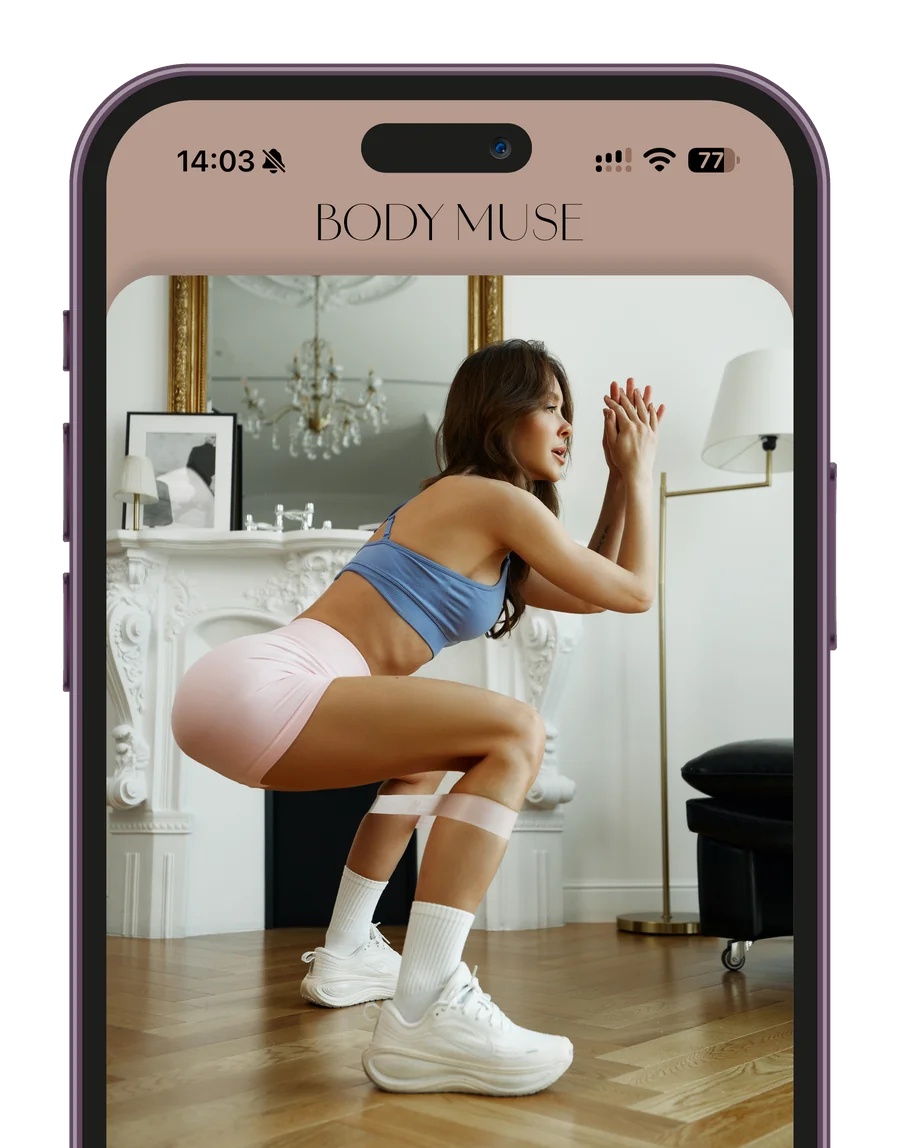
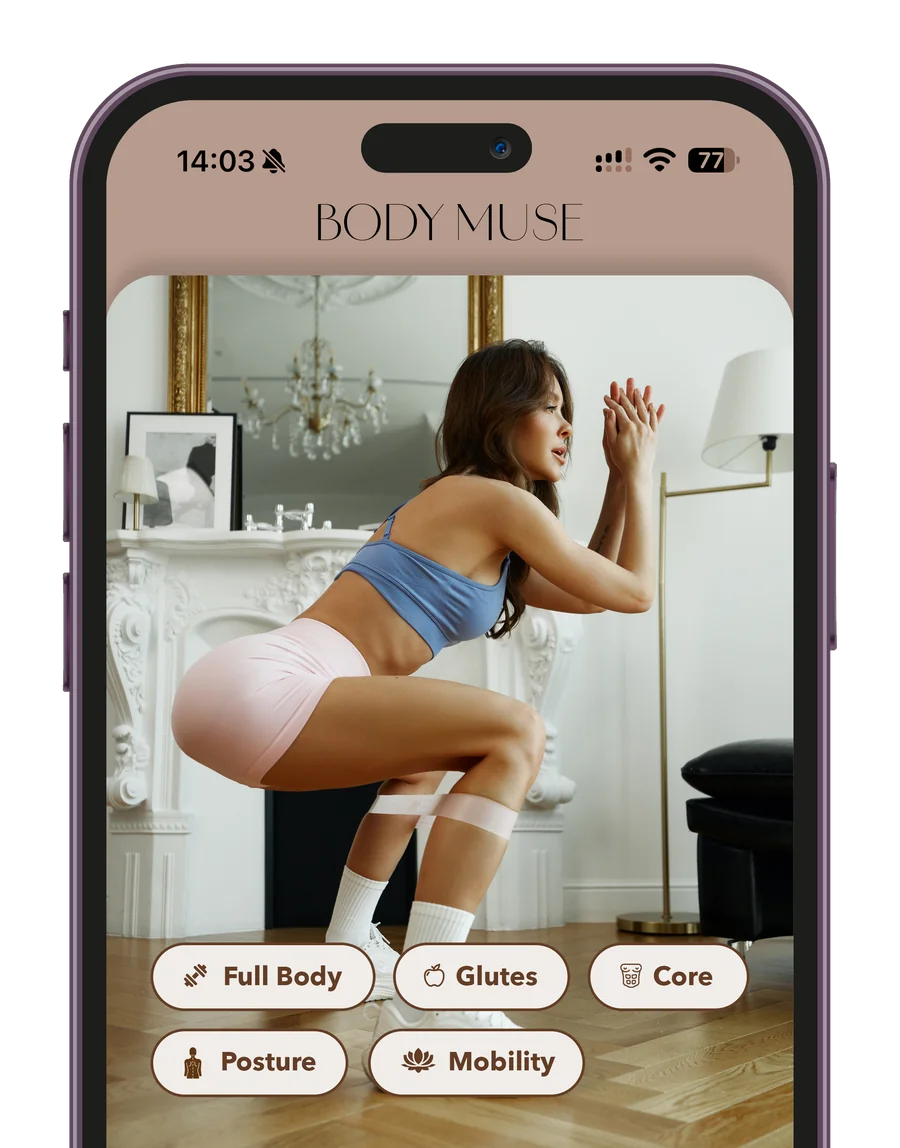
Drop pill/lesson/chat overlays now that cards 1, 4, 5 bake in their own content
- Cards 1, 4 and 5 now use updated mockups (card1/4/5.png) with the
  pill badges, lesson list icons/text, and chat text drawn directly
  into the image, so the separate HTML/CSS overlays for those are
  removed along with the extra spacing they used to need
- Phone mockup width bumped from 84% to 92% of the card
- Card subtitle text size increased by 2px (13px -> 15px)
- Compressed the 3 updated images to webp and removed the raw uploads

Claude-Session: https://claude.ai/code/session_01Gqp4hQjTvhLsd1JRyaJWz5

Changed region(s): [[0.1556, 0.8232, 0.84, 0.9756]]

diff --git a/index.html b/index.html
@@ -303,13 +303,6 @@
                 <div class="membership-card-number">01</div>
                 <h3 class="membership-card-title">Workouts</h3>
                 <p class="membership-card-text">20-Minute<br>Results-Driven Training</p>
-                <div class="membership-pill-row">
-                  <span class="membership-pill"><svg viewBox="0 0 24 24" fill="none" stroke="currentColor" stroke-width="1.8" stroke-linecap="round" stroke-linejoin="round" aria-hidden="true"><path d="M6 8v8M18 8v8M2 10v4M22 10v4M6 12h12"/></svg>Full Body</span>
-                  <span class="membership-pill"><svg viewBox="0 0 24 24" fill="none" stroke="currentColor" stroke-width="1.8" stroke-linecap="round" stroke-linejoin="round" aria-hidden="true"><path d="M12 4c-4 0-7 3-7 8 0 4.5 3 8 7 8s7-3.5 7-8c0-5-3-8-7-8z"/><path d="M12 4v16"/></svg>Glutes</span>
-                  <span class="membership-pill"><svg viewBox="0 0 24 24" fill="none" stroke="currentColor" stroke-width="1.8" stroke-linecap="round" stroke-linejoin="round" aria-hidden="true"><circle cx="12" cy="12" r="9"></circle><circle cx="12" cy="12" r="5"></circle><circle cx="12" cy="12" r="1" fill="currentColor" stroke="none"></circle></svg>Core</span>
-                  <span class="membership-pill"><svg viewBox="0 0 24 24" fill="none" stroke="currentColor" stroke-width="1.8" stroke-linecap="round" stroke-linejoin="round" aria-hidden="true"><circle cx="12" cy="4" r="2"/><path d="M12 6v7M8 10.5l4-1.5 4 1.5M9 21l3-6 3 6"/></svg>Posture</span>
-                  <span class="membership-pill"><svg viewBox="0 0 24 24" fill="none" stroke="currentColor" stroke-width="1.8" stroke-linecap="round" stroke-linejoin="round" aria-hidden="true"><path d="M7 12a3 3 0 1 0 6 0 3 3 0 1 0 6 0"/></svg>Mobility</span>
-                </div>
               </div>
               <div class="membership-phone">
                 <img src="images/membership-card1.webp" class="membership-phone-img" alt="Body Muse app workout screen" loading="lazy">
@@ -349,13 +342,6 @@
               </div>
               <div class="membership-phone">
                 <img src="images/membership-card4.webp" class="membership-phone-img" alt="Body Muse app mindset screen" loading="lazy">
-                <ul class="membership-lesson-overlay">
-                  <li><svg viewBox="0 0 24 24" fill="none" stroke="currentColor" stroke-width="1.8" stroke-linecap="round" stroke-linejoin="round" aria-hidden="true"><path d="M7 2v20M7 2c0 4 4 4 4 8s-4 4-4 8"/><path d="M17 2v20M17 13c2 0 3-1 3-3V2"/><path d="M17 2v7"/></svg>Why We Overeat</li>
-                  <li><svg viewBox="0 0 24 24" fill="none" stroke="currentColor" stroke-width="1.8" stroke-linecap="round" stroke-linejoin="round" aria-hidden="true"><path d="M12 20s-7-4.35-7-9.5A4.5 4.5 0 0 1 12 7a4.5 4.5 0 0 1 7 3.5C19 15.65 12 20 12 20z"/></svg>Emotional vs Physical Hunger</li>
-                  <li><svg viewBox="0 0 24 24" fill="none" stroke="currentColor" stroke-width="1.8" stroke-linecap="round" stroke-linejoin="round" aria-hidden="true"><rect x="3" y="4" width="18" height="17" rx="3"/><path d="M3 9h18M8 2v4M16 2v4"/><path d="M8.5 14.5l2.3 2.3 4.7-4.8"/></svg>How to Stay Consistent</li>
-                  <li><svg viewBox="0 0 24 24" fill="none" stroke="currentColor" stroke-width="1.8" stroke-linecap="round" stroke-linejoin="round" aria-hidden="true"><path d="M3 12a9 9 0 1 1 2.6 6.3"/><path d="M3 20v-5h5"/></svg>After a Setback</li>
-                  <li><svg viewBox="0 0 24 24" fill="none" stroke="currentColor" stroke-width="1.8" stroke-linecap="round" stroke-linejoin="round" aria-hidden="true"><circle cx="12" cy="12" r="4.5"/><path d="M12 2.5v2M12 19.5v2M4.2 4.2l1.4 1.4M18.4 18.4l1.4 1.4M2.5 12h2M19.5 12h2M4.2 19.8l1.4-1.4M18.4 5.6l1.4-1.4"/></svg>Build a Healthy Routine</li>
-                </ul>
               </div>
             </article>
 
@@ -368,8 +354,6 @@
               </div>
               <div class="membership-phone">
                 <img src="images/membership-card5.webp" class="membership-phone-img" alt="Body Muse app coach chat screen" loading="lazy">
-                <div class="membership-chat-overlay membership-chat-overlay-them">Hi! Which exercise can I replace squats with?</div>
-                <div class="membership-chat-overlay membership-chat-overlay-me">Great question! You can try Bulgarian split squats or leg press. I'll also send you a video 💕</div>
               </div>
             </article>
 

diff --git a/style.css b/style.css
@@ -736,85 +736,26 @@ body:has(#mobileMenuOverlay.visible) .topbar .topbar-link{ color:var(--ink-soft)
   margin:0 0 6px 0;
 }
 .membership-card-text{
-  font-size:13px;
+  font-size:15px;
   line-height:1.4;
   font-weight:500;
   color:rgba(255,255,255,0.85);
   margin:0;
 }
 
-.membership-pill-row{
-  display:flex;
-  flex-wrap:wrap;
-  gap:6px;
-  margin-top:10px;
-}
-.membership-pill{
-  display:inline-flex;
-  align-items:center;
-  gap:6px;
-  padding:7px 12px;
-  border-radius:999px;
-  background:#F1EDE9;
-  color:#71432B;
-  font-family:'Avenir Next','Jost',sans-serif;
-  font-weight:700;
-  font-size:10.5px;
-}
-.membership-pill svg{ width:13px; height:13px; flex-shrink:0; }
-
 .membership-phone{
   position:absolute;
   left:50%;
   bottom:0;
   transform:translateX(-50%);
-  width:84%;
+  width:92%;
   aspect-ratio:2477/3160;
-  container-type:inline-size;
 }
 .membership-phone-img{
   position:absolute; inset:0;
   width:100%; height:100%;
   display:block;
 }
-
-.membership-lesson-overlay{
-  position:absolute;
-  left:18.8%; top:32.8%;
-  width:62.5%; height:58.2%;
-  display:flex;
-  flex-direction:column;
-  justify-content:space-between;
-}
-.membership-lesson-overlay li{
-  display:flex;
-  align-items:center;
-  gap:3%;
-  height:9.4%;
-  padding:0 3%;
-  overflow:hidden;
-  white-space:nowrap;
-  text-overflow:ellipsis;
-  font-family:'Avenir Next','Jost',sans-serif;
-  font-weight:700;
-  font-size:3.1cqw;
-  color:#71432B;
-}
-.membership-lesson-overlay svg{ width:9%; height:auto; flex-shrink:0; }
-
-.membership-chat-overlay{
-  position:absolute;
-  display:flex;
-  align-items:flex-start;
-  overflow:hidden;
-  font-family:'Avenir Next','Jost',sans-serif;
-  font-weight:500;
-  font-size:3.3cqw;
-  line-height:1.2;
-  color:#71432B;
-}
-.membership-chat-overlay-them{ left:18%; top:33%; width:50%; height:16%; padding:3% 3% 0; }
-.membership-chat-overlay-me{ left:33%; top:54.5%; width:47%; height:16.5%; padding:3% 3% 0; }
 
 .placeholder-note{
   font-size:13px;
